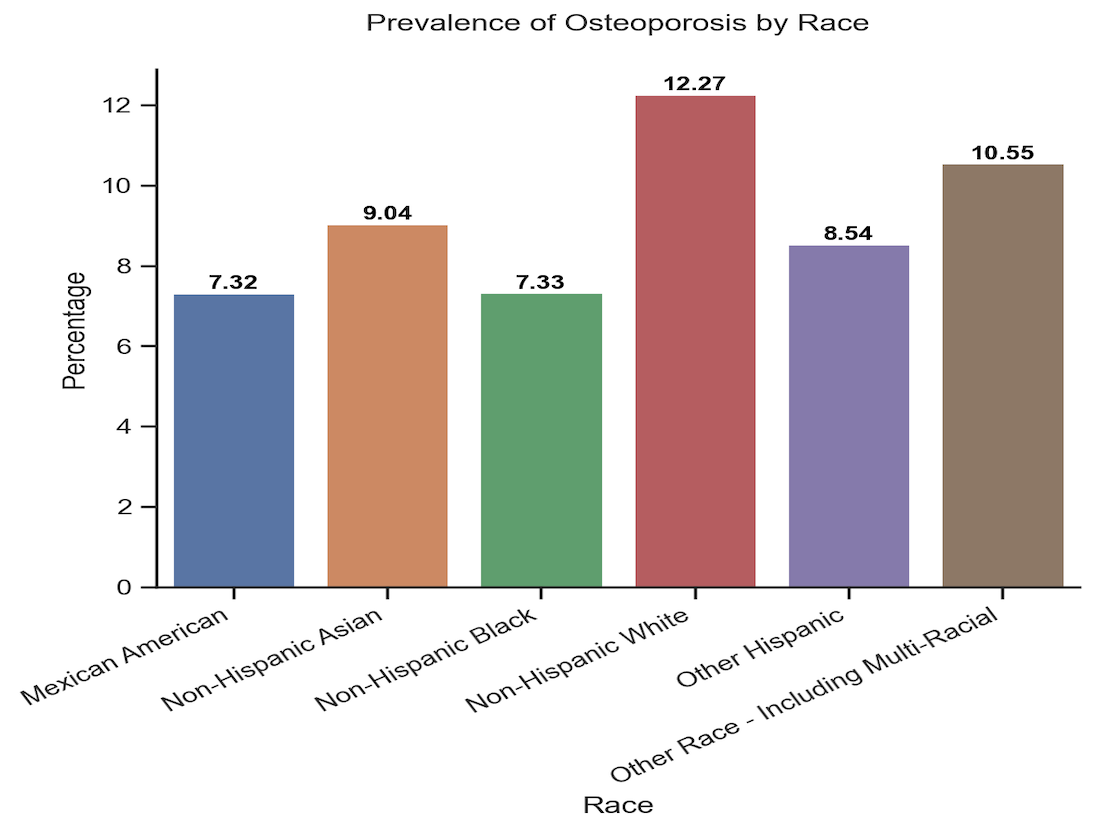
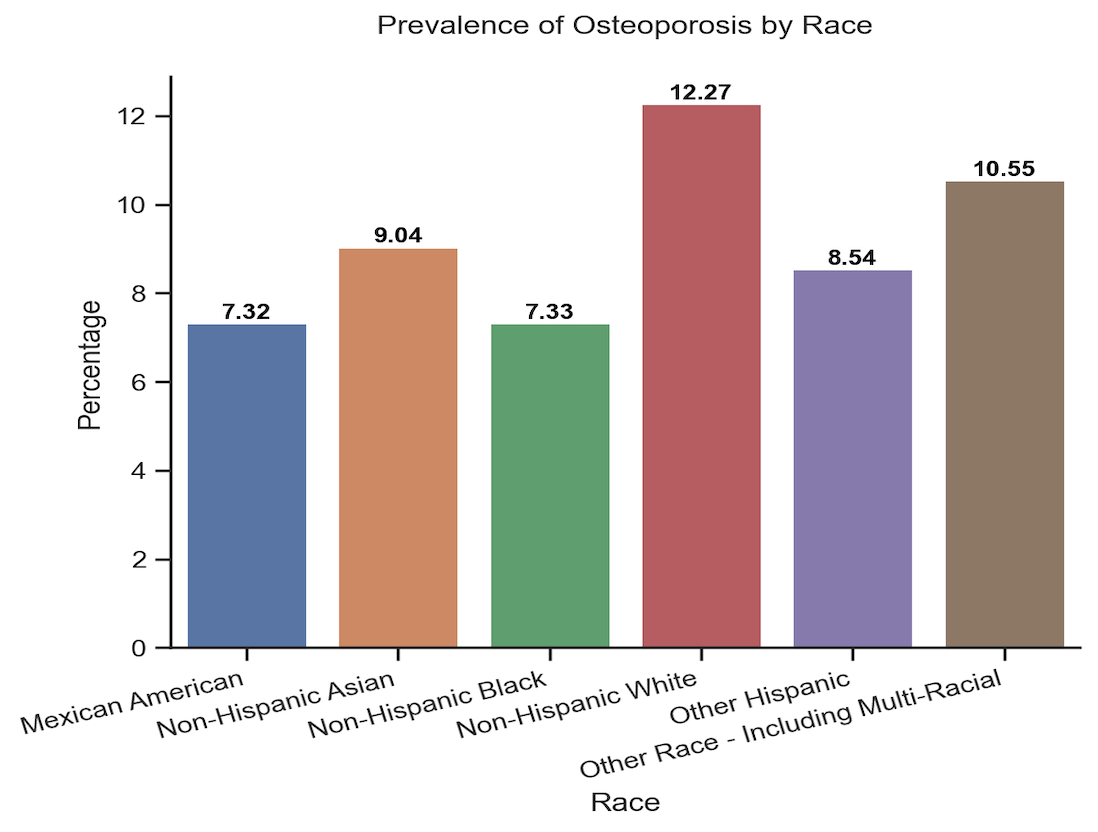
resized image

Changed region(s): [[0.0, 0.0938, 0.9909, 1.0], [0.3406, 0.0, 0.8051, 0.0625]]

diff --git a/README.md b/README.md
@@ -71,9 +71,9 @@ Reasons of missing values:
 
 For 1), just ignore the missing values from Osteoporosis to focus on aged 40+, because osteoporosis is rare in young people and more common among people over age 50 [[8](#8), [9](#9)].
 
-For 2), here is the distribution of all data vs. the distribution of missing data:
+For 2), this is the distribution of all data vs missing data:
 <div align="center">
-  <img alt="Missing Data Distribution" src="images/missing-data.png" width="50%">
+  <img alt="Missing Data Distribution" src="images/missing-data.png" width="60%">
 </div>
 
 They have similar distributions, removing missing data should not cause too much bias, besides, data imputation is not considered in this study as it leads to inaccracy and uncertainty.
@@ -85,21 +85,21 @@ Therefore, the study analyzed complete data only, with a dimension of 6509 rows 
 
 The dataset is imbalanced with a 9:1 ratio of people with and without osteoporosis:
 <div align="center">
-  <img alt="Overall Data" src="images/overall-data.png" width="50%">
+  <img alt="Overall Data" src="images/overall-data.png" width="60%">
 </div>
 
 The prevalence of osteoporosis is associated differently with variables, such as:
 
 <div align="center">
-  <img alt="Female vs. Male" src="images/gender.png" width="46%">
+  <img alt="Female vs. Male" src="images/gender.png" width="43%">
 &nbsp; &nbsp; 
-  <img alt="Age" src="images/age.png" width="46%">  
+  <img alt="Age" src="images/age.png" width="43%">  
 </div>
-
+&nbsp;
 <div align="center">
-  <img alt="Race" src="images/race.png" width="46%">
+  <img alt="Race" src="images/race.png" width="43%">
 &nbsp; &nbsp; 
-  <img alt="BMI" src="images/bmi.png" width="46%">  
+  <img alt="BMI" src="images/bmi.png" width="43%">  
 </div>
 
 ## Handling Imbalanced Data
@@ -174,7 +174,7 @@ The analyzed results showed that women had a higher risk of osteoporosis than me
 <br/>
 <a id="7">[7]</a> Handzlik-Orlik G, Holecki M, Wilczyński K, Duława J. Osteoporosis in liver disease: pathogenesis and management. Ther Adv Endocrinol Metab. 2016 Jun;7(3):128-35. doi: 10.1177/2042018816641351. Epub 2016 Apr 6. PMID: 27293541; PMCID: PMC4892399.
 <br/>
-<a id="8">[8]</a> [What People With Rheumatoid Arthritis Need To Know About Osteoporosis](https://www.bones.nih.gov/health-info/bone/osteoporosis/conditions-behaviors/osteoporosis-ra)
+<a id="8">[8]</a> [Does Osteoporosis Run in Your Family](https://www.cdc.gov/genomics/disease/osteoporosis.htm#:~:text=Osteoporosis%20is%20more%20common%20in,until%20they%20break%20a%20bone.)
 <br/>
 <a id="9">[9]</a> [Juvenile Osteoporosis](https://www.bones.nih.gov/health-info/bone/bone-health/juvenile/juvenile-osteoporosis)
 <br/>
